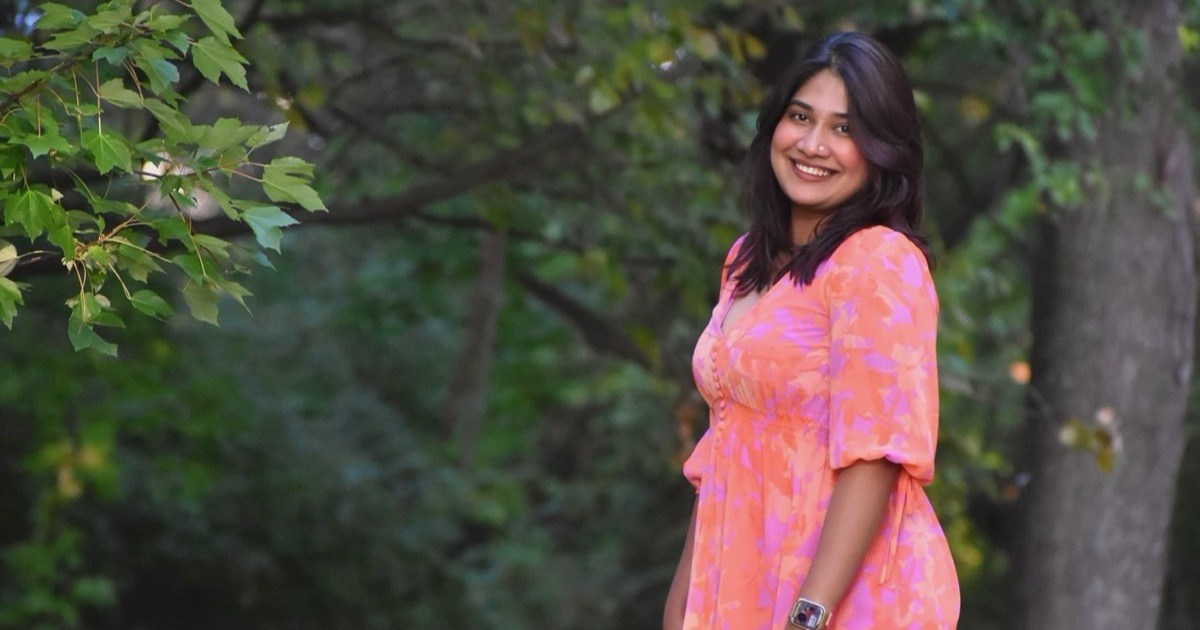
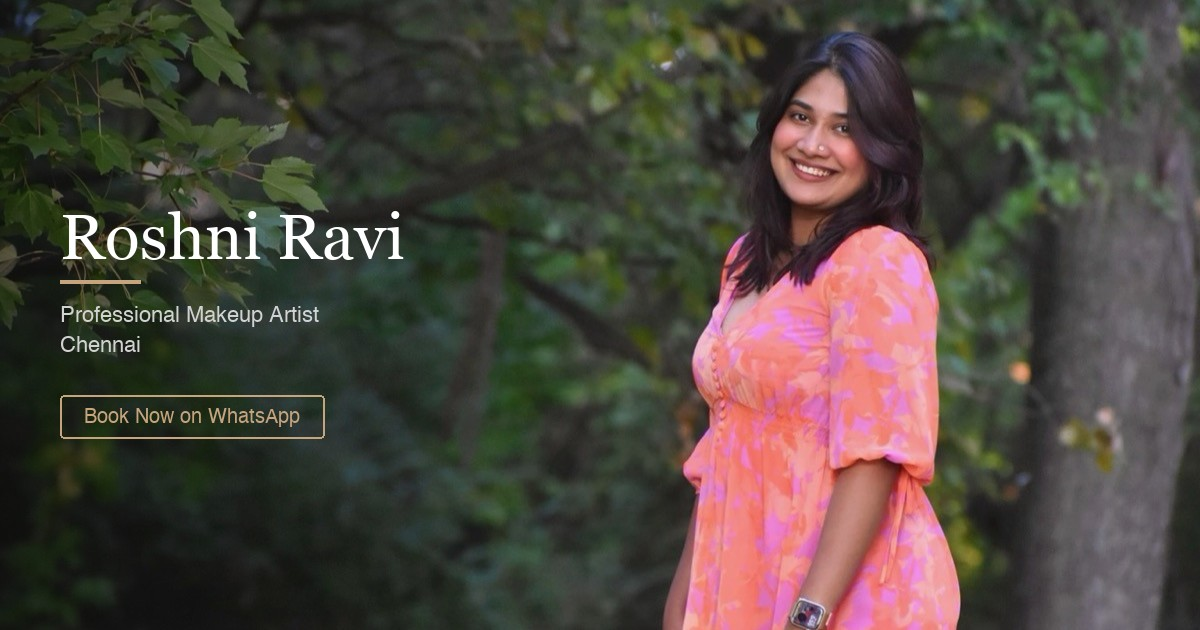
OG image with text overlay and fix title length
- Add headline, tagline, and CTA to OG preview image
- Fix title from 49 to 51 characters (optimal range)

Changed region(s): [[0.0, 0.0, 0.3392, 1.0]]

diff --git a/index.html b/index.html
@@ -6,7 +6,7 @@
   <title>Roshni Ravi | Professional Makeup Artist, Chennai</title>
   <meta name="description" content="Professional bridal and event makeup artist in Chennai. Timeless, elegant looks for your most beautiful moments.">
   <!-- Open Graph -->
-  <meta property="og:title" content="Roshni Ravi | Professional Makeup Artist, Chennai">
+  <meta property="og:title" content="Roshni Ravi | Professional Makeup Artist in Chennai">
   <meta property="og:description" content="Professional bridal and event makeup artist in Chennai. Timeless, elegant looks for your most beautiful moments.">
   <meta property="og:image" content="https://roshniravi.com/images/og-image.jpg">
   <meta property="og:image:width" content="1200">
@@ -16,7 +16,7 @@
   <meta property="og:site_name" content="Roshni Ravi">
   <!-- Twitter Card -->
   <meta name="twitter:card" content="summary_large_image">
-  <meta name="twitter:title" content="Roshni Ravi | Professional Makeup Artist, Chennai">
+  <meta name="twitter:title" content="Roshni Ravi | Professional Makeup Artist in Chennai">
   <meta name="twitter:description" content="Professional bridal and event makeup artist in Chennai. Timeless, elegant looks for your most beautiful moments.">
   <meta name="twitter:image" content="https://roshniravi.com/images/og-image.jpg">
   <link rel="icon" type="image/svg+xml" href="favicon.svg">
